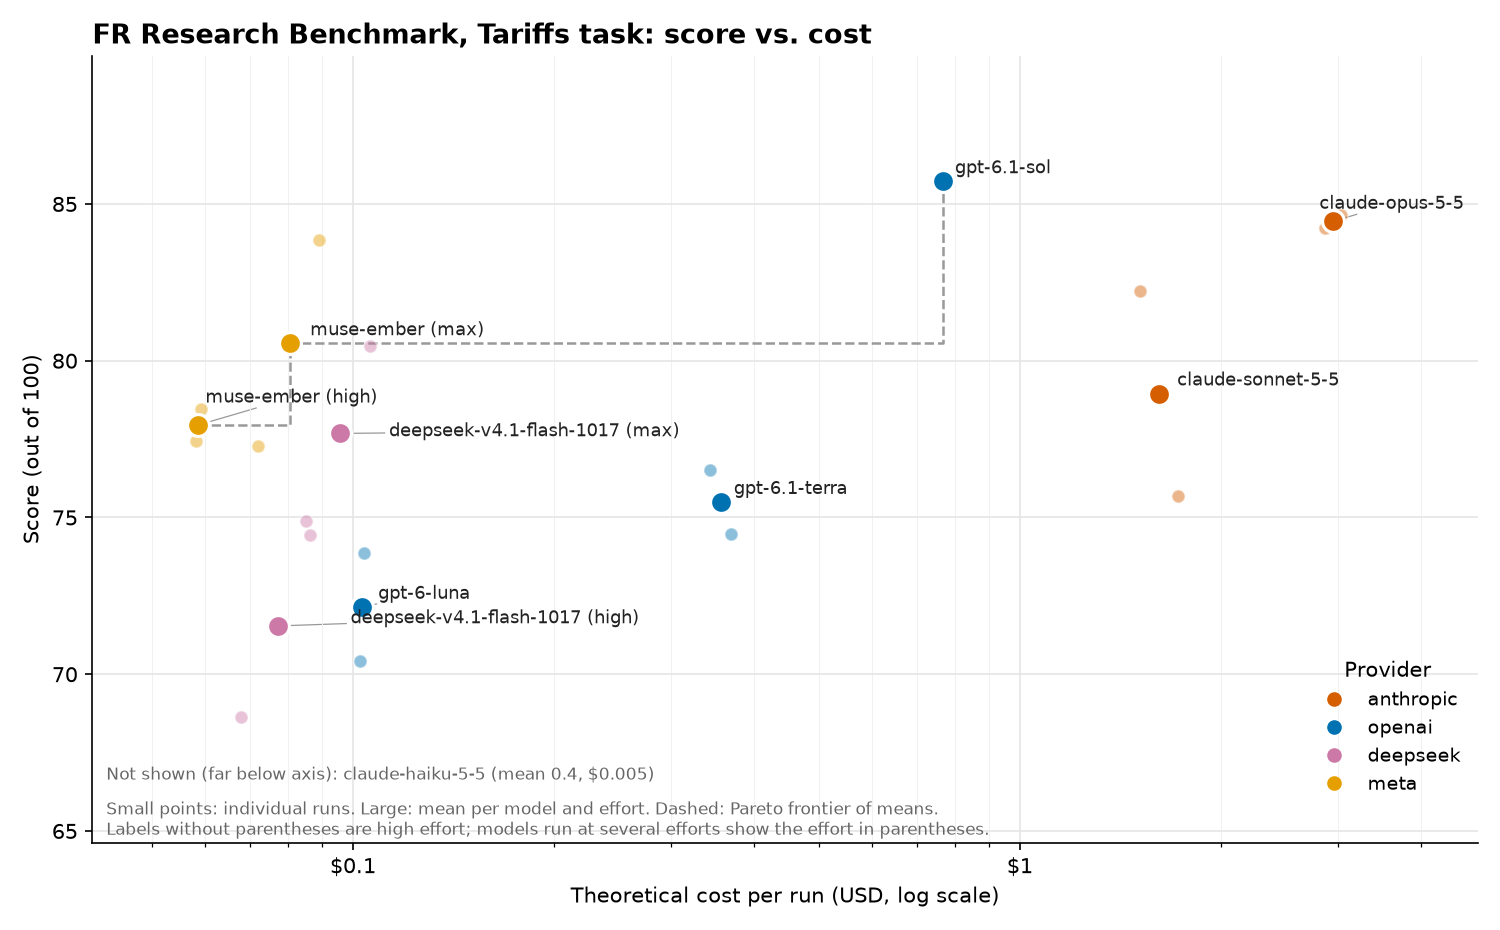
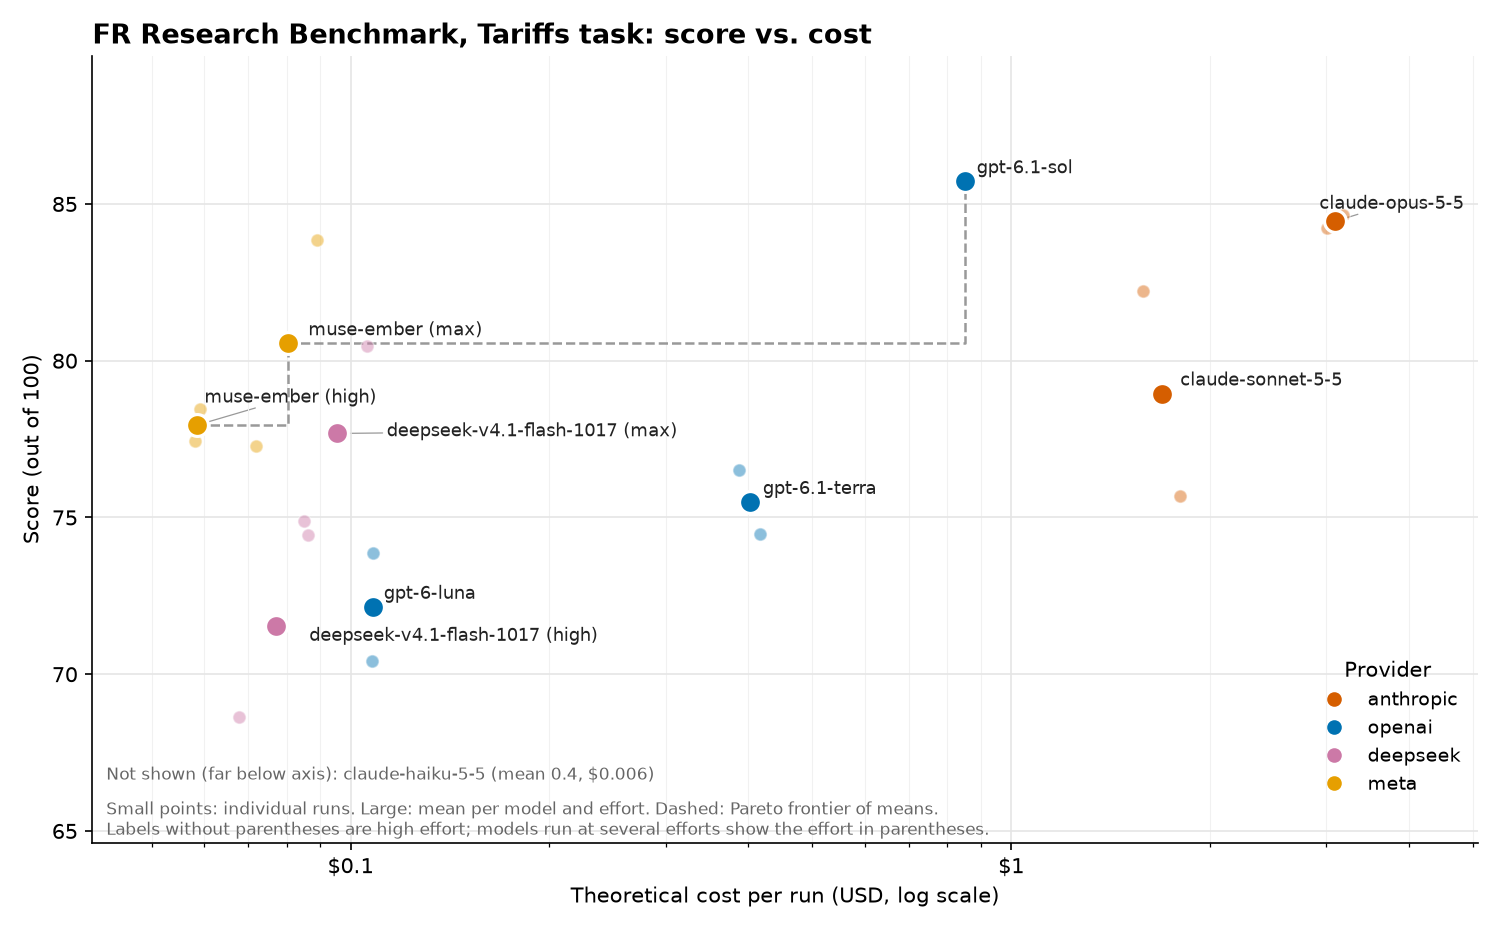
Include cache writes in theoretical cost
Cache-miss tokens are billed at the shortest-duration cache-write price
when pricing.csv has one, else at the uncached input price. Regenerated
cost CSVs, model summaries and plots for f1, tariffs and rif.

Claude-Session: https://claude.ai/code/session_01UYvC1fEVh612vinJ1JhTbN

diff --git a/analysis/theoretical_cost.py b/analysis/theoretical_cost.py
@@ -1,5 +1,8 @@
 """Theoretical cost per run: every token that can be cached is a cache hit, every
-token that cannot (new user prompt / tool results) is a cache miss. Prices in
+token that cannot (new user prompt / tool results) is a cache miss. Cache misses are
+also cache writes (they become part of the next request's prefix), so they are billed
+at the shortest-duration cache-write price where pricing.csv gives one, else at the
+uncached input price. Prices in
 pricing.csv are USD per 1M tokens. Usage: theoretical_cost.py [task] (default f1).
 Writes <task>/runs_theoretical_cost.csv."""
 import csv, json, pathlib, sys
@@ -50,7 +53,9 @@ def cost(model, turns, variant=None):
         else:
             key = ""
         p = pick(model, key)
-        total += (miss * float(p["uncached_input"]) + hit * float(p["cached_input_read"])
+        w = p["cache_write_5m_or_shortest"]
+        write = float(w) if w != "" else float(p["uncached_input"])
+        total += (miss * write + hit * float(p["cached_input_read"])
                   + out * float(p["output"])) / 1e6
         prev = inp + out
     return total
